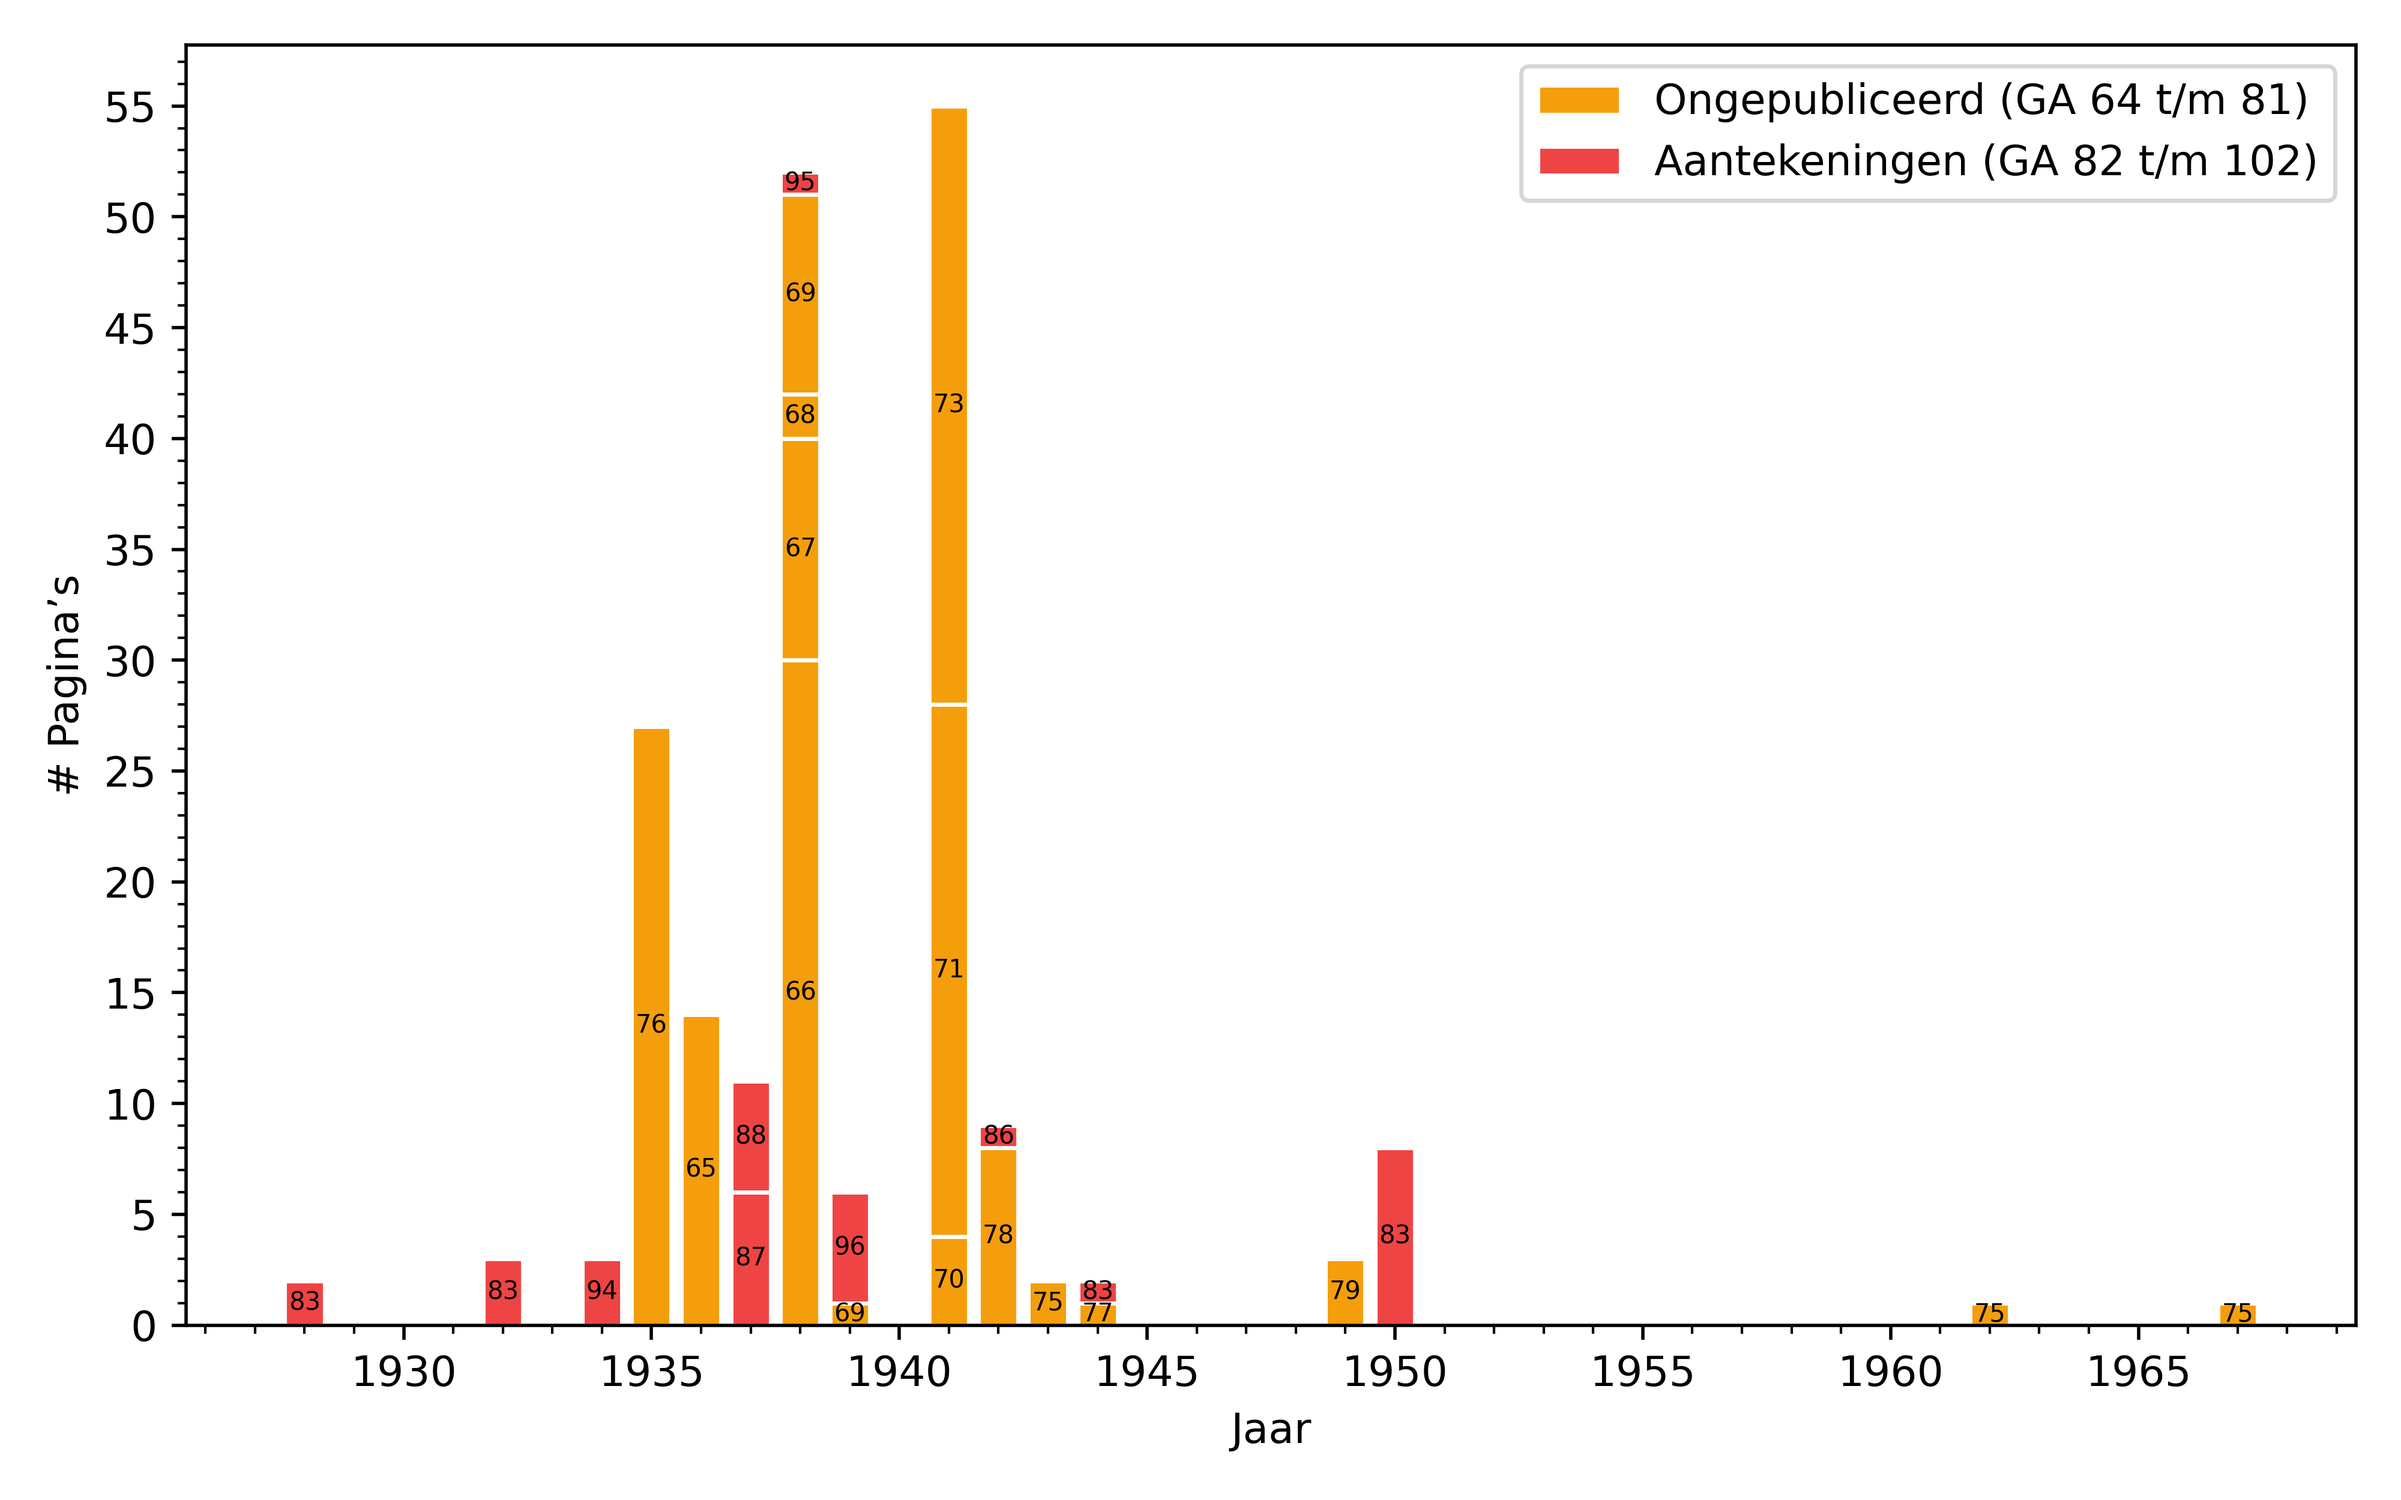
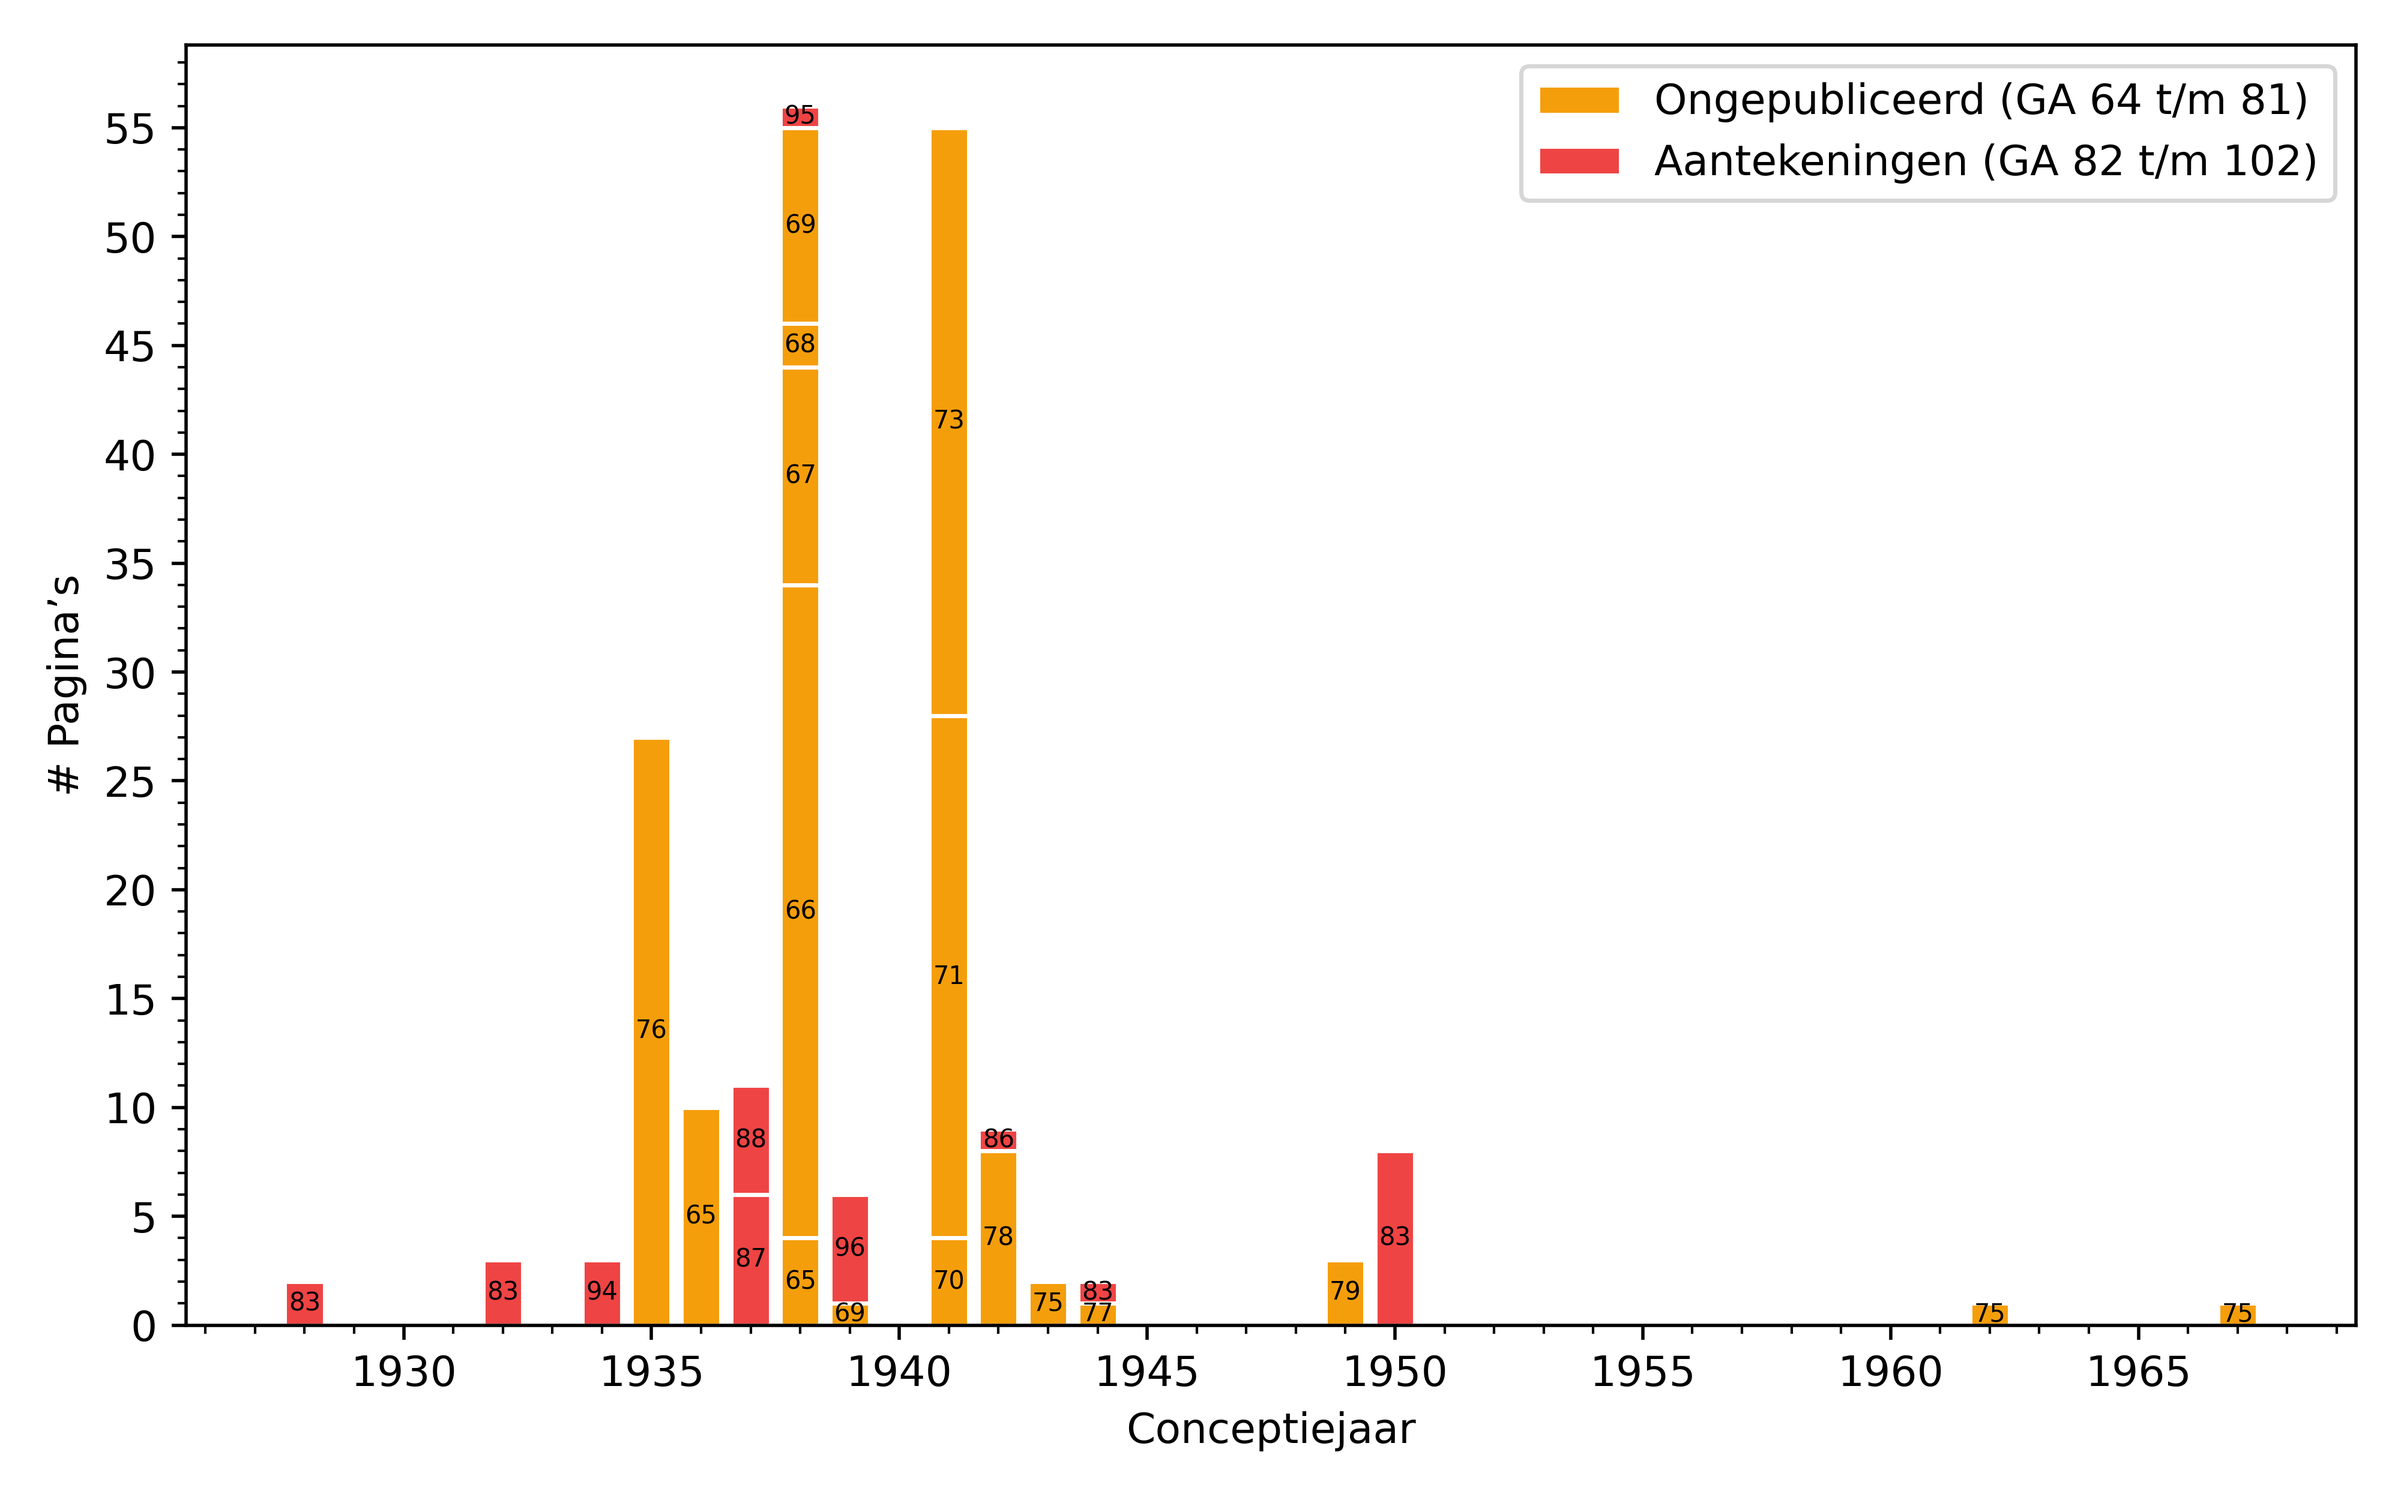
General update

diff --git a/index.py b/index.py
@@ -16,7 +16,12 @@ def get_num_pages(ref: Ref) -> tuple[int, int]:
     if isinstance(ref, int):
         return ref, 1
     else:
-        m = REF_REGEX.match(ref).groupdict()
+        m = REF_REGEX.match(ref)
+
+        if not m:
+            raise ValueError(f"Reference {ref} not recognized")
+
+        m = m.groupdict()
         first_page = int(m["start"])
 
         if m["suffix"]:
@@ -90,7 +95,7 @@ def plot_histogram(
     size="md",
 ):
     index = get_index()
-    fig = plt.figure(figsize=(8, 7 if size == "lg" else 5))
+    fig = plt.figure(figsize=(8, 9 if size == "lg" else 5))
     ax = fig.subplots()
     cumulative_counter = Counter()
 
@@ -159,7 +164,7 @@ def plot_histogram(
     ax.yaxis.set_minor_locator(MultipleLocator(1))
 
     plt.ylabel("# Pagina’s")
-    plt.xlabel("Jaar" if date_type == "orig" else "Publicatiejaar")
+    plt.xlabel("Conceptiejaar" if date_type == "orig" else "Publicatiejaar")
     plt.legend()
     plt.tight_layout()
     part_postfix = "_" + "-".join(sorted(include_parts)) if include_parts else ""

diff --git a/README.md b/README.md
@@ -5,7 +5,7 @@
 * Aanname paginering *Wegmarken*: $p_{GA} = p_{Mijn\ editie} + 2$ 
 * Als een referentie meerdere pagina’s bestrijkt (bijv. ‘122f’, ‘49ff’ of ‘123-125’), dan tellen we dat gewoon als één referentie. Men zou kunnen zeggen dat φύσις in dit dit bereik strikt gezien vaker voorkomt, maar daar valt tegenin te brengen dat ook op een enkele pagina dit woord meerdere keren voor kan komen. De aanname is dus dat elke referentie op zich een eenheid is waarin φύσις ter sprake komt.
 * De protocollen uit GA 83 t/m 88 zijn achterwege gelaten. De vermeldingen in de notities niet. <!-- Wat zijn de 'Ergängzungen' uit GA 88? -->
-* Niet door Unruh meegenomen: vol. 38A, 72, 80.1, 80.2, 82, 84.2, 91-93, 98-102 (13 delen)
+* Niet door Unruh meegenomen: vol. 38A, 72, 80.1, 80.2, 82, 84.2, 91-93, 98-102 (14 delen)
 * Niet te dateren: 
   * GA 74
   * GA 76 (gedachten stammen uit de periode 1933 t/m 1955... wel echt een φύσις-band!)
@@ -55,6 +55,7 @@ In al deze gevallen is ervoor gekozen om het eerste jaar uit de reeks aan te hou
 | `GriNat` | φύσις als *griechisch gedachten ‘Natur’*    |
 | `PhuErd` | φύσις en aarde                              |
 | `Episte` | ἐπιστήμαι ἠθική, λογική & φυσική            |
+| `Metaph` | Metaphysik/μετὰ τὰ φύσικα                   |
 | `SeiIGa` | φύσις als _Seiende im Ganzen_               |
 | `SeAlSo` | φύσις als *Seiende als solches*             |
 | `PhuTex` | φύσις tegenover τέχνη                       |
@@ -65,4 +66,5 @@ In al deze gevallen is ervoor gekozen om het eerste jaar uit de reeks aan te hou
 | `Aufgeh` | Vert. als *Aufgehen*                        |
 | `Aufgan` | Vert. als _Aufgang_                         |
 | `Verneh` | *Vernehmende des Seienden* / φύσις en νοεῖν |
+| `Entmac` | *Entmachtung der* φύσις                     |
 |      `?` | Overig                                      |
